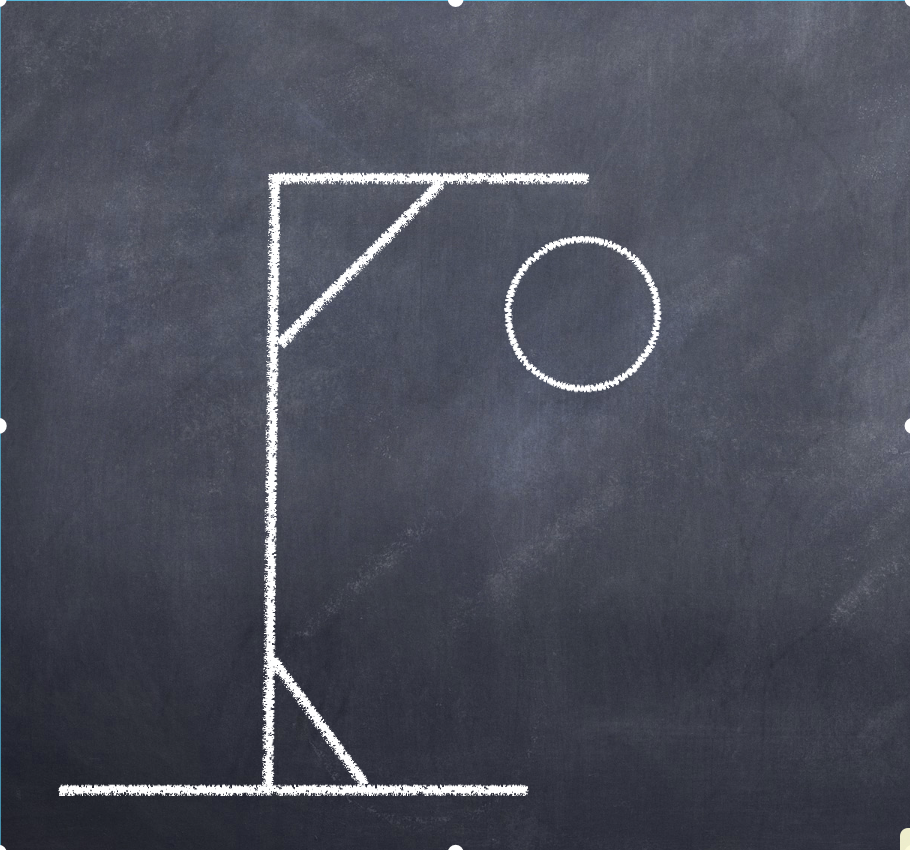
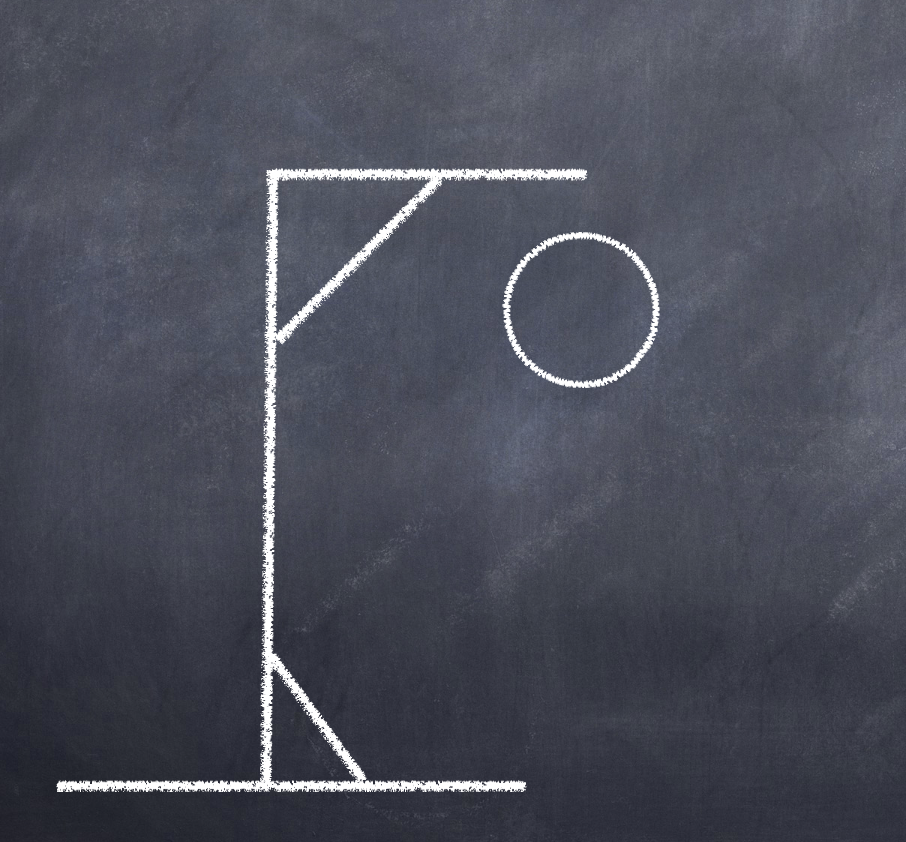
more styling

diff --git a/css/style.css b/css/style.css
@@ -50,14 +50,14 @@ div {
   margin-left: 45%;
   margin-right: 10px;
   /*height:500px;*/
-  /*border: 2px solid grey;*/
+  border: 2px solid grey;
   /*margin-top: 100px;*/
 }
 img {
   position:absolute;
   width:650px;
   height:700px;
-
+  border: 2px solid white;
 }
 
 
@@ -126,6 +126,8 @@ footer {
 }
 a {
   color: #fff;
+  text-decoration: none;
+
 }
 h2 {
   font-size: 15px;

diff --git a/index.html b/index.html
@@ -30,6 +30,7 @@
 
     <div class="hangman">
       <img src="images/step one.png" alt="step one">
+
       <h2></h2>
     </div>
   </main>
